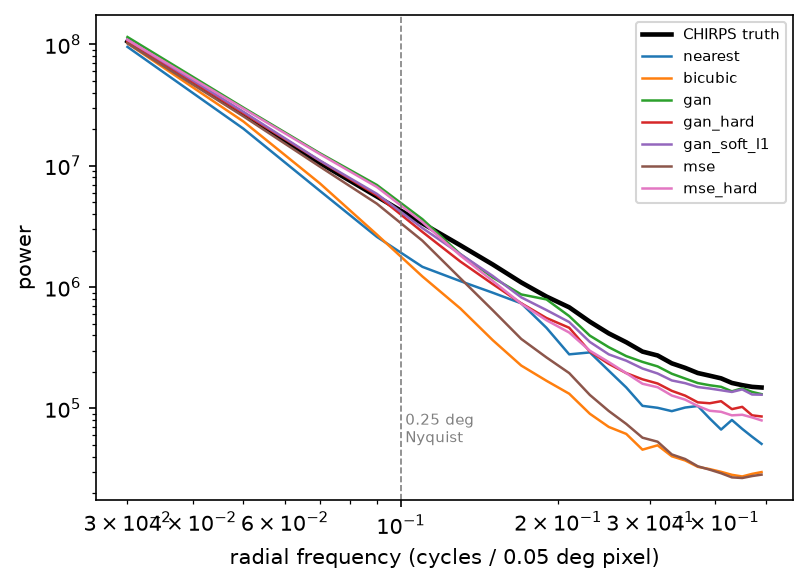
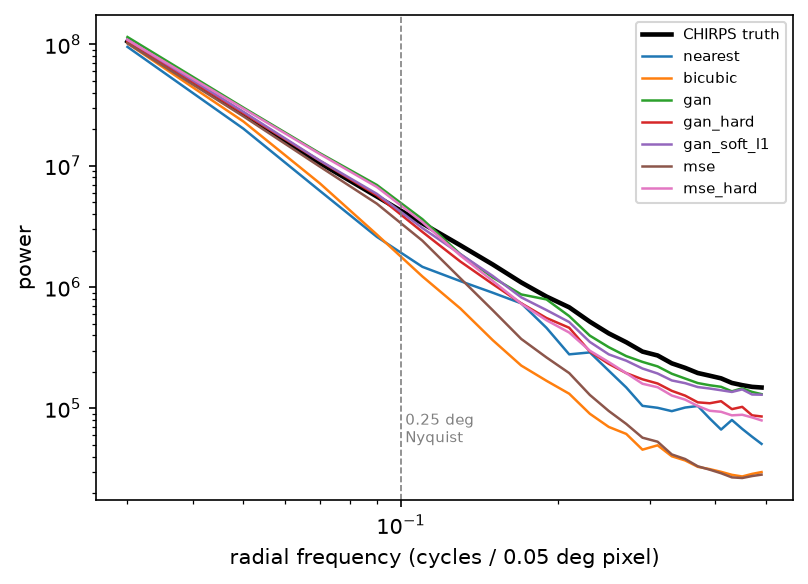
evaluation costs another

Changed region(s): [[0.0928, 0.863, 0.4022, 0.9247], [0.7426, 0.863, 0.9282, 0.9247], [0.6188, 0.863, 0.7426, 0.9247]]

diff --git a/05_evaluation/evaluate.py b/05_evaluation/evaluate.py
@@ -122,6 +122,19 @@ def radial_spectrum(x, step=5, nb=25):
     return 0.5 * (edges[1:] + edges[:-1]), ps
 
 
+def lattice_score(x, step=5):
+    """Peak-to-background power at the 5-pixel lattice frequencies (0.2 and 0.4 cycles/px and their
+    2D combinations). Sub-pixel-shuffle checkerboard artefacts raise this; real rain fields do not."""
+    p = (np.abs(np.fft.fft2(x[::step].astype("float64"))) ** 2).mean(axis=0)
+    H, W = p.shape
+    fy, fx = H // F5, W // F5
+    sc = []
+    for n, m in [(0, fx), (fy, 0), (fy, fx), (0, 2 * fx), (2 * fy, 0), (2 * fy, 2 * fx), (fy, 2 * fx), (2 * fy, fx)]:
+        win = p[max(n - 4, 0):n + 5, max(m - 4, 0):m + 5]
+        sc.append(p[n, m] / ((win.sum() - p[n, m]) / (win.size - 1)))
+    return float(np.mean(sc))
+
+
 # ---------------- predictions ----------------
 x = torch.from_numpy(coarse)[:, None]
 preds = {
@@ -150,12 +163,13 @@ for name, pred in preds.items():
     for tag, sel in (("all_days", slice(None)), ("jjas", jjas)):
         r = evaluate(pred[sel], truth[sel], coarse[sel], mask)
         r["grad_ratio"] = grad_ratio(pred[sel], truth[sel])
+        r["lattice_ratio"] = lattice_score(np.where(mask, pred[sel], 0)) / lattice_score(truth[sel])
         results[name][tag] = r
 Path("results").mkdir(exist_ok=True)
 Path("figures").mkdir(exist_ok=True)
 Path(f"results/{a.split}_results.json").write_text(json.dumps(results, indent=2))
 
-cols = ["rmse", "mae", "conservation", "p99_bias_pct", "wet_freq_ratio", "subcoarse_power", "grad_ratio"]
+cols = ["rmse", "mae", "conservation", "p99_bias_pct", "wet_freq_ratio", "subcoarse_power", "grad_ratio", "lattice_ratio"]
 for tag in ("all_days", "jjas"):
     print(f"\n== {a.split} {tag} ==")
     print(f"{'model':28s}" + "".join(f"{c[:11]:>12s}" for c in cols))
@@ -192,6 +206,8 @@ for n, p in primary.items():
     ax.loglog(kk[1:], ps[1:], lw=1.2, label=n.replace("/latest", ""))
 ax.axvline(0.1, color="grey", ls="--", lw=0.8)
 ax.text(0.102, ax.get_ylim()[0] * 3, "0.25 deg\nNyquist", fontsize=7, color="grey")
+ax.xaxis.set_minor_formatter(plt.NullFormatter())
+ax.yaxis.set_minor_formatter(plt.NullFormatter())
 ax.set_xlabel("radial frequency (cycles / 0.05 deg pixel)")
 ax.set_ylabel("power")
 ax.legend(fontsize=7)
